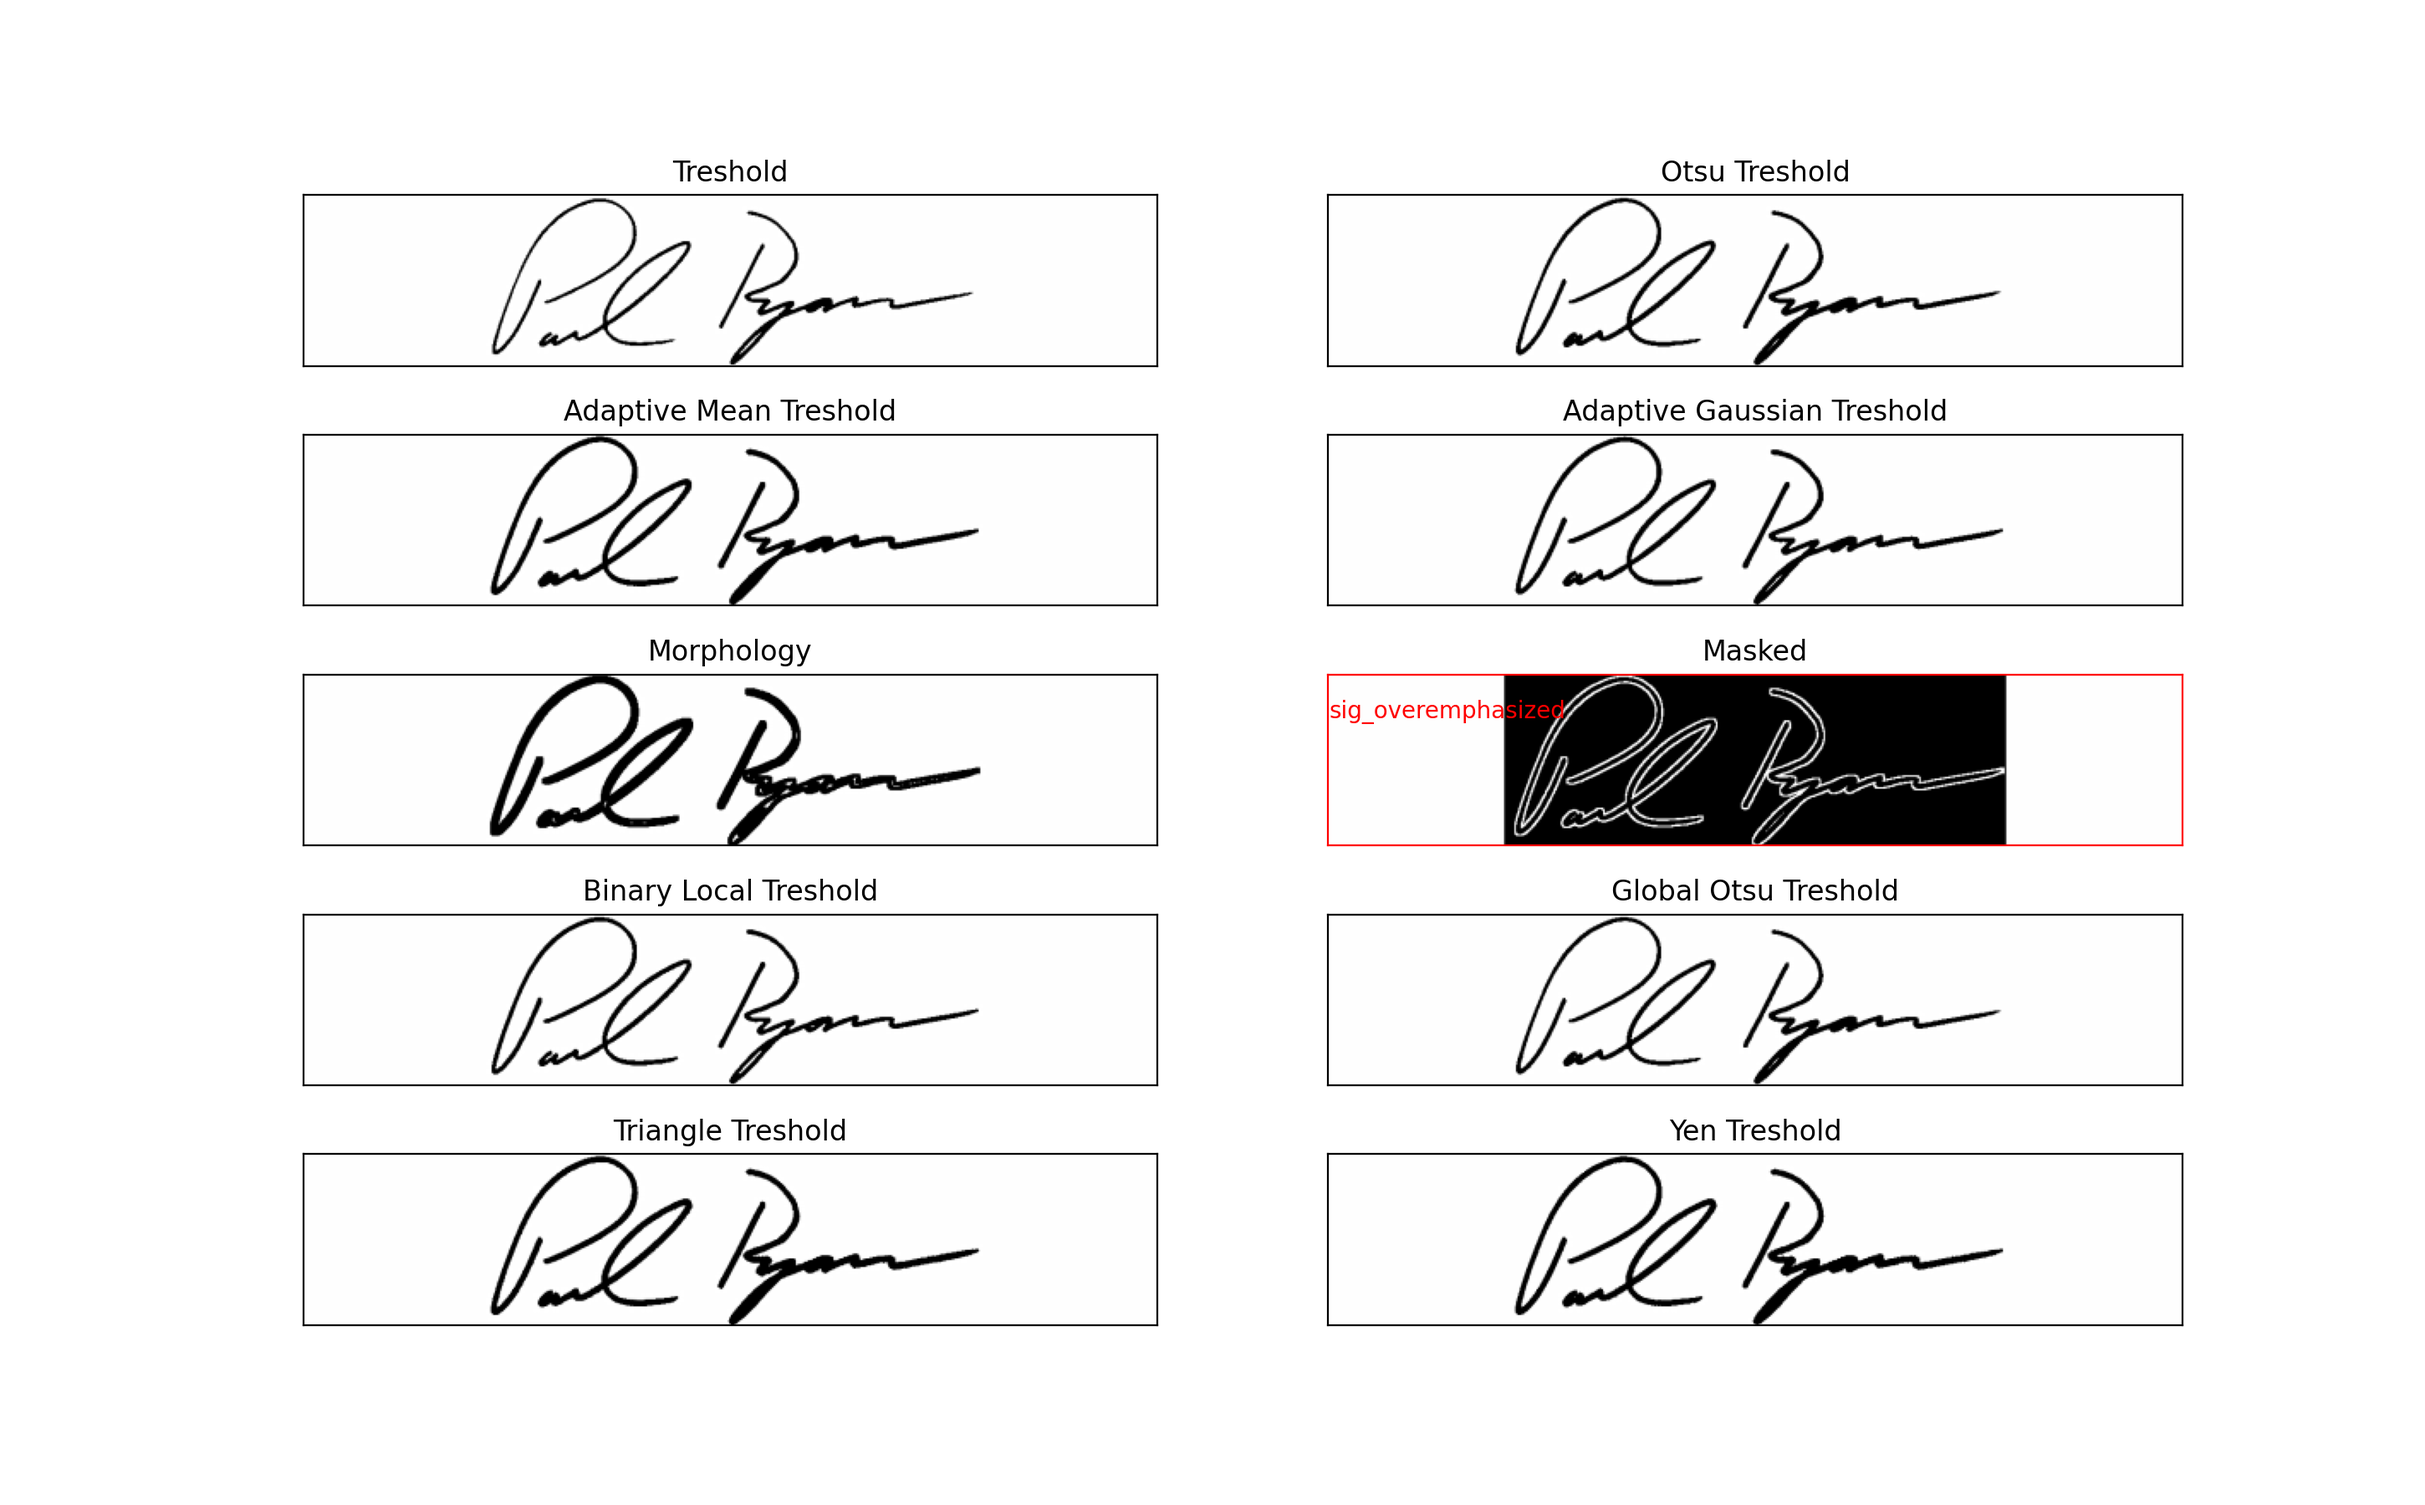
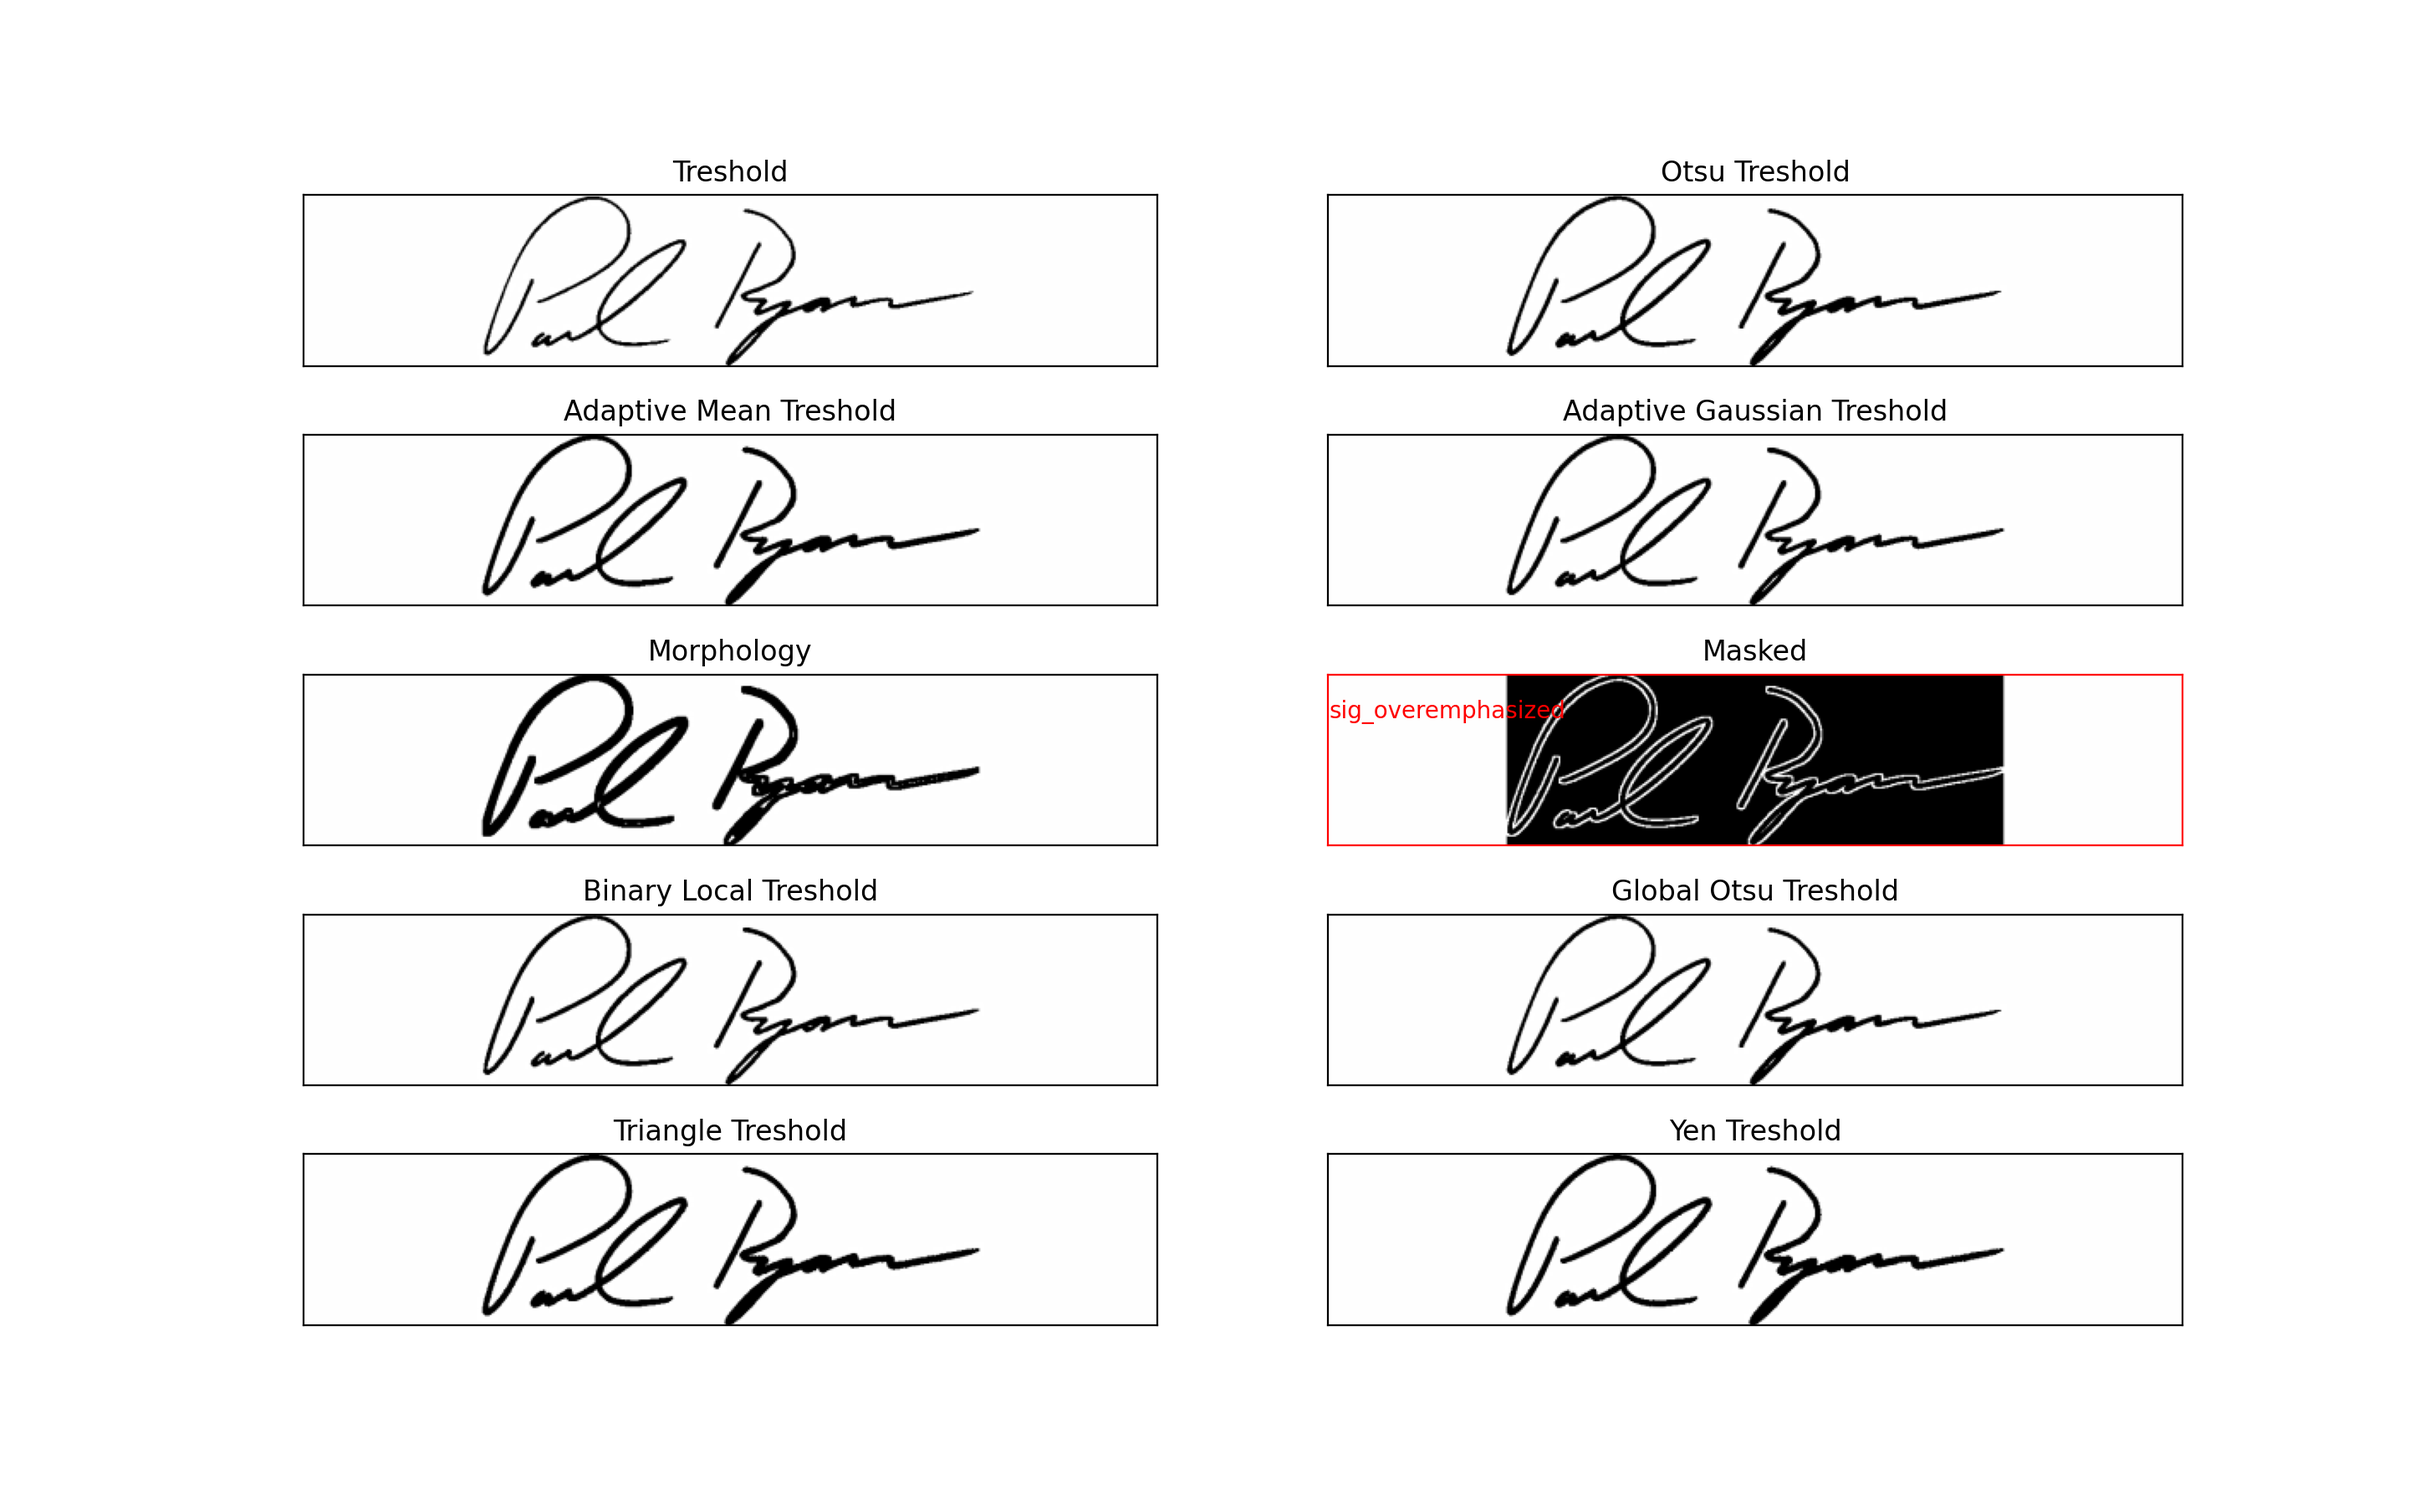
fixed transparancy issue, new data

diff --git a/signature_extractor.py b/signature_extractor.py
@@ -13,8 +13,17 @@ class SignatureExtractor:
 
     def _prepare_img(self, img):
 
-        if img.shape[2] > 3: # 4 channels - convert transparent to white
+        if img.shape[2] > 3: # 4 channels - deal with transparency
 
+            # Crop-out as much as possible of the transparent part of the image
+            y, x = img[:, :, 3].nonzero() # get the nonzero alpha coordinates
+            minx = np.min(x)
+            miny = np.min(y)
+            maxx = np.max(x)
+            maxy = np.max(y)
+            img = img[miny:maxy, minx:maxx]
+
+            # convert the rest of transparent pixels to white
             trans_mask = img[:, :, 3] == 0
             img[trans_mask] = [255, 255, 255, 255]
             img = img[:, :, :3]

diff --git a/test.py b/test.py
@@ -40,7 +40,7 @@ def plot_sig(_se, _ax, _img, _title):
 
 def run_for_dataset(dataset_index=0):
 
-    datasets = [[15, "jpeg"], [35, "jpg"], [10, "png"]]
+    datasets = [[15, "jpeg"], [35, "jpg"], [15, "png"]]
 
     size, ext = datasets[dataset_index]
 
@@ -89,8 +89,9 @@ def run_for_file(src="./images/nt.png"):
 
     img = cv2.imread(src, cv2.IMREAD_UNCHANGED)
 
-    sig = tex.extract_and_resize(img)
-    sig = tex.prettify(sig)
+    sig = agtse.extract_and_resize(img)
+    sig = agtse.prettify(sig)
+
     cv2.imwrite(src.replace("."+ext, "_1."+ext), sig)
 
 

diff --git a/file_handler.py b/file_handler.py
@@ -42,6 +42,8 @@ def get_from_bytes(img_bytes, encoding=ENCODING_BASE64):
 
 def extract_signature(img, encoding=ENCODING_BASE64):
 
+    original = np.copy(img)
+
     se = AdaptiveGaussianTresholdSignatureExtractor()
 
     se.pre_validate(img)
@@ -53,6 +55,7 @@ def extract_signature(img, encoding=ENCODING_BASE64):
     se.validate(sig)
 
     # TODO: Dev - remove
+    cv2.imwrite('./images/test.png', original)
     cv2.imwrite('./images/test0.jpg', se._prepare_img(img))
     cv2.imwrite('./images/test1.jpg', sig)
     return convert_img(sig, encoding)
